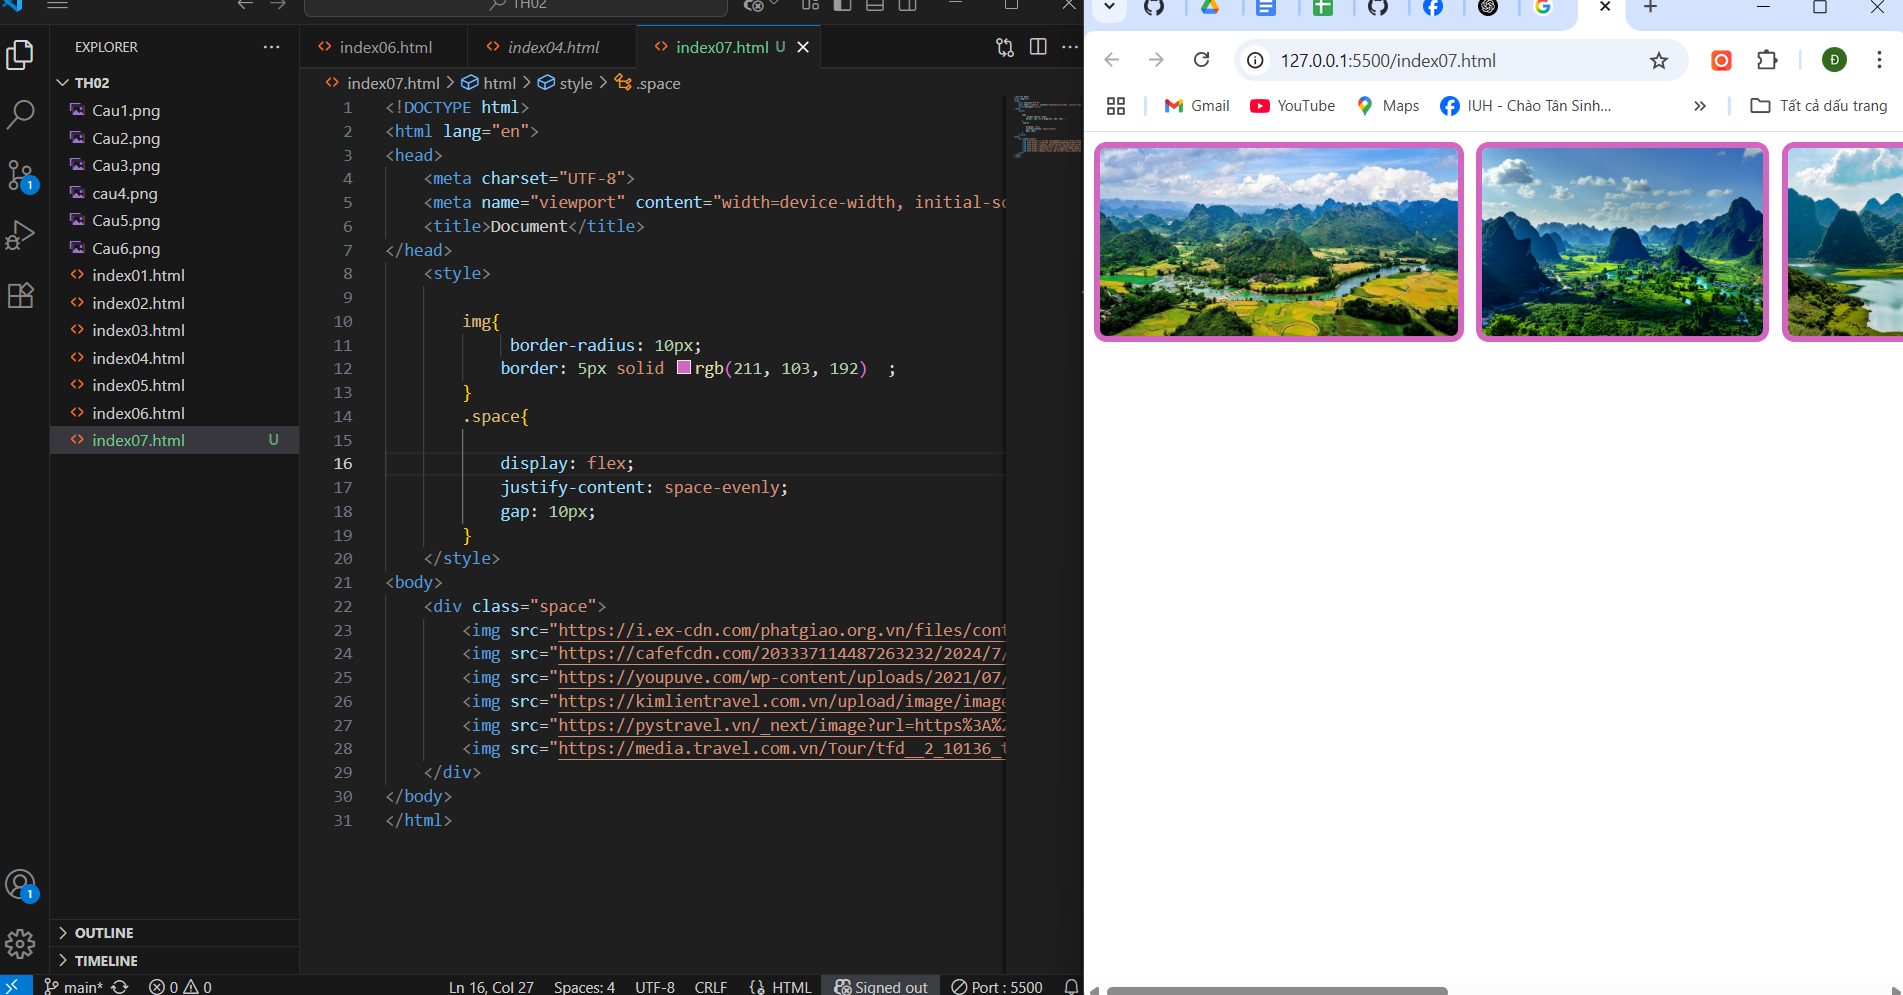
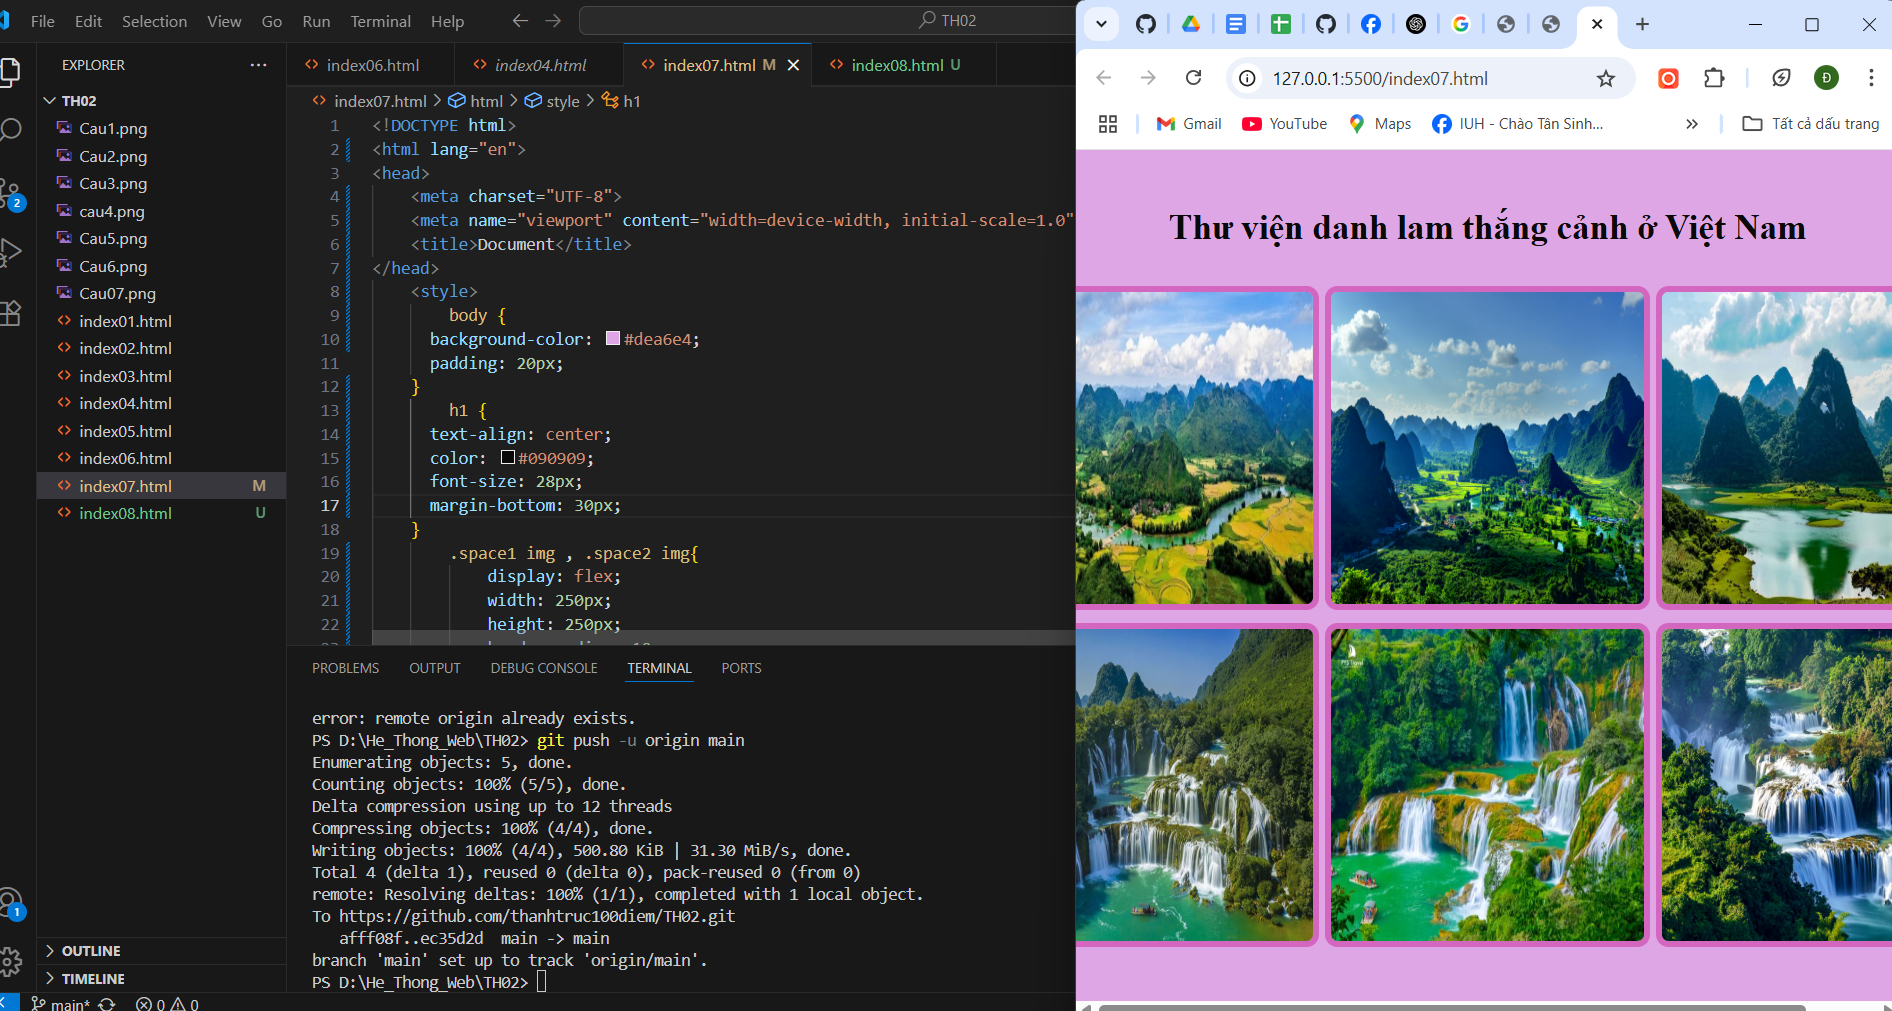
modify index07.html + cau07.png

diff --git a/index07.html b/index07.html
@@ -1,41 +1,48 @@
 <!DOCTYPE html>
-<html lang="vi">
+<html lang="en">
 <head>
-  <meta charset="UTF-8">
-  <meta name="viewport" content="width=device-width, initial-scale=1.0">
-  <title>Thư viện ảnh - 3 ảnh mỗi hàng</title>
-  <style>
-    body {
-      background-color: #f7f7f7;
-      padding: 20px;
-      font-family: Arial, sans-serif;
-    }
-
-    .space {
-      display: grid;
-      gap: 15px;
-      justify-items: center;
-    }
-
-    img {
-      width: 150px;
-      height: 150px;
-      border-radius: 10px;
-      border: 5px solid rgb(211, 103, 192);
-      object-fit: cover;
-    }
-  </style>
+    <meta charset="UTF-8">
+    <meta name="viewport" content="width=device-width, initial-scale=1.0">
+    <title>Document</title>
 </head>
+    <style>
+        body {
+      background-color: #dea6e4;
+      padding: 20px;
+    }
+        h1 {
+      text-align: center;
+      color: #090909;
+      font-size: 28px;
+      margin-bottom: 30px;
+    }
+        .space1 img , .space2 img{
+            display: flex;
+            width: 250px;
+            height: 250px;
+            border-radius: 10px;
+            border: 5px solid rgb(211, 103, 192);
+            justify-content: center;
+            margin-bottom: 10px;
+        }
+        .space1 , .space2{
+
+            display: flex;
+            justify-content: center;
+            gap: 5px;
+        }
+    </style>
 <body>
-
-  <div class="space">
-    <img src="https://i.ex-cdn.com/phatgiao.org.vn/files/content/2023/11/30/gioi-thieu-canh-song-nuoc-nui-non-2009.jpg" alt="Ảnh 1">
-    <img src="https://cafefcdn.com/203337114487263232/2024/7/30/non-nuoc-cao-bang-1722313726344-17223137265861602862684.jpeg" alt="Ảnh 2">
-    <img src="https://youpuve.com/wp-content/uploads/2021/07/Kham-pha-canh-dep-nui-non-hung-vi-tren-dat-Cao-Bang-1024x683.jpg" alt="Ảnh 3">
-    <img src="https://kimlientravel.com.vn/upload/image/image-20231107150049-1.jpeg" alt="Ảnh 4">
-    <img src="https://pystravel.vn/_next/image?url=https%3A%2F%2Fbooking.pystravel.vn%2Fuploads%2Fposts%2Falbums%2F40%2F11fb660111f5e4956a90738c8dc18424.jpg&w=1920&q=75" alt="Ảnh 5">
-    <img src="https://media.travel.com.vn/Tour/tfd__2_10136_thacbangioc4.webp" alt="Ảnh 6">
-  </div>
-
+    <h1> Thư viện danh lam thắng cảnh ở Việt Nam</h1>
+    <div class="space1">
+        <img src="https://i.ex-cdn.com/phatgiao.org.vn/files/content/2023/11/30/gioi-thieu-canh-song-nuoc-nui-non-2009.jpg" weight="1px" height="130px"  alt="">
+        <img src="https://cafefcdn.com/203337114487263232/2024/7/30/non-nuoc-cao-bang-1722313726344-17223137265861602862684.jpeg" weight="150px" height="150px" alt="">
+        <img src="https://youpuve.com/wp-content/uploads/2021/07/Kham-pha-canh-dep-nui-non-hung-vi-tren-dat-Cao-Bang-1024x683.jpg" weight="150px" height="150px" alt="">
+    </div>
+    <div class="space2">
+        <img src="https://kimlientravel.com.vn/upload/image/image-20231107150049-1.jpeg" weight="150px" height="150px" alt="">
+        <img src="https://pystravel.vn/_next/image?url=https%3A%2F%2Fbooking.pystravel.vn%2Fuploads%2Fposts%2Falbums%2F40%2F11fb660111f5e4956a90738c8dc18424.jpg&w=1920&q=75" weight="150px" height="150px" alt="">
+        <img src="https://media.travel.com.vn/Tour/tfd__2_10136_thacbangioc4.webp" weight="150px" height="150px" alt="">
+    </div>
 </body>
 </html>
